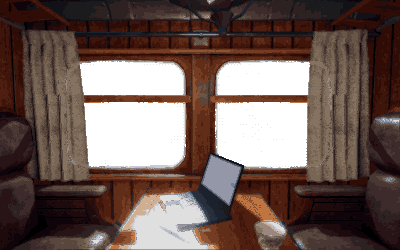
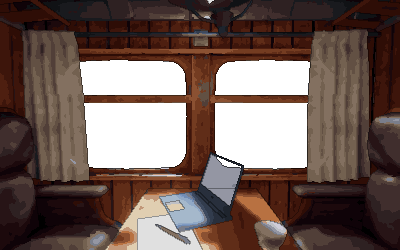
雪国线 ride, pixel art cleaned up: each part of the carriage is smoothed only within itself (from an id render of the same camera), specks merged away, outlines only where parts meet — no more ragged edges on the table, laptop and cup. Sun on the table stays warm wood, laptop in slate tones, seats with
Claude-Session: https://claude.ai/code/session_01ScX6WKwjvGxQ2unMJchHBc

diff --git a/ride.js b/ride.js
@@ -25,6 +25,14 @@
   const TW = 3200, trunks = document.createElement("canvas"); trunks.width = TW; trunks.height = IH;
   { const t = trunks.getContext("2d"); let s = 5; const r = () => (s = (s * 9301 + 49297) % 233280) / 233280;
     for (let x = 0; x < TW - 200;) { x += 120 + r() * 420; const w = 50 + r() * 120;
+      if (PX) {   // pixel bark: flat tones on the 4-px grid, a snow-lit edge, a few dark notches — no gradients
+        const X = Math.round(x / 4) * 4, Wd = Math.round(w / 4) * 4;
+        t.fillStyle = "#3a3028"; t.fillRect(X, 0, Wd, IH);
+        t.fillStyle = "#261f1a"; t.fillRect(X + Math.round(Wd * .62 / 4) * 4, 0, Wd - Math.round(Wd * .62 / 4) * 4, IH);
+        t.fillStyle = "#c9d3de"; t.fillRect(X + 4, 0, 8, IH);
+        t.fillStyle = "#5a4a3e"; t.fillRect(X + 12, 0, 4, IH);
+        t.fillStyle = "#1a1512"; for (let y = 0; y < IH; y += 60 + Math.floor(r() * 90)) t.fillRect(X + 16 + Math.floor(r() * Wd / 8) * 4, Math.round(y / 4) * 4, 8 + Math.floor(r() * 3) * 4, 4);
+        x += w; continue; }
       const gr = t.createLinearGradient(x, 0, x + w, 0); gr.addColorStop(0, "rgba(28,23,18,0)"); gr.addColorStop(.18, "rgba(28,23,18,.97)"); gr.addColorStop(.6, "rgba(48,40,32,.97)"); gr.addColorStop(.82, "rgba(20,16,12,.97)"); gr.addColorStop(1, "rgba(20,16,12,0)");
       t.fillStyle = gr; t.fillRect(x, 0, w, IH);
       const hl = t.createLinearGradient(x, 0, x + w, 0); hl.addColorStop(0, "rgba(230,236,242,0)"); hl.addColorStop(.25, "rgba(230,236,242,.28)"); hl.addColorStop(.4, "rgba(230,236,242,0)"); t.fillStyle = hl; t.fillRect(x, 0, w, IH);   // the snow light on one side of the bark
@@ -33,7 +41,7 @@
   // the tree shadows: slanted trunks and needle clumps, blurred — sunlight breaking through a wood. Tiles every SW px.
   const SW = 2400, pat = document.createElement("canvas"); pat.width = SW; pat.height = IH;
   { const p = pat.getContext("2d"); let s = 17; const r = () => (s = (s * 9301 + 49297) % 233280) / 233280;
-    p.filter = "blur(14px)"; p.fillStyle = "#000";
+    p.filter = PX ? "none" : "blur(14px)"; p.fillStyle = "#000";   // in pixel art the shadows keep hard edges
     const slant = .45;                              // the sun comes in low from the side: shadows lean
     for (let i = 0; i < 6; i++) {
       const x0 = i / 6 * SW + r() * 120, w = 30 + r() * 60;
@@ -57,8 +65,12 @@
     for (let i = puffs.length - 1; i >= 0; i--) {
       const p = puffs[i]; p.age += dt; if (p.age > p.life) { puffs.splice(i, 1); continue; }
       const u = p.age / p.life; p.y -= dt * (34 - 14 * u); p.x += Math.sin(t * 1.6 + p.ph + u * 5) * dt * 16 - dt * 4;
-      const r = p.r * (1 + u * 3.2); g.globalAlpha = Math.sin(Math.PI * Math.min(1, u * 1.2)) * .8 * (1 - u * .5);
-      g.drawImage(puffImg, p.x - r, p.y - r, r * 2, r * 2);
+      const r = p.r * (1 + u * 3.2), al = Math.sin(Math.PI * Math.min(1, u * 1.2)) * .8 * (1 - u * .5);
+      if (PX) {   // pixel steam: a small cluster of pale squares on the grid, stepped alpha
+        g.globalAlpha = Math.round(al * .3 * 8) / 8; g.fillStyle = "#f4f2ee"; const R = Math.max(1, Math.round(r * .32 / 4));
+        for (let j = -R; j <= R; j++) for (let i = -R; i <= R; i++) if (i * i + j * j <= R * R + (((i * 7 + j * 3 + (p.ph * 10 | 0)) & 3) ? 0 : -R))
+          g.fillRect(Math.round(p.x / 4 + i) * 4, Math.round(p.y / 4 + j) * 4, 4, 4);
+      } else { g.globalAlpha = al; g.drawImage(puffImg, p.x - r, p.y - r, r * 2, r * 2); }
     }
     g.globalAlpha = 1;
   }

diff --git a/tools/pixelate.py b/tools/pixelate.py
@@ -1,32 +1,93 @@
-"""纸桌 · turn the ride stills into pixel art (400×250, one shared 40-colour palette, dark outlines).
+"""纸桌 · turn the ride stills into pixel art (400×250, one shared 40-colour palette).
+   Clean edges: each part of the carriage (from tools/cabin-id.png, a flat-colour id render of the same camera)
+   is smoothed only within itself, specks are merged away, and outlines are drawn only where one part meets another.
    py tools/pixelate.py      → assets/cabin-day-px.png, assets/cabin-day-shade-px.png, assets/snow-forest-px.png"""
 import os, numpy as np
 from PIL import Image, ImageFilter
+from scipy import ndimage
 R = os.path.dirname(os.path.dirname(os.path.abspath(__file__))); A = os.path.join(R, "assets")
 W, H = 400, 250
 lo = lambda f: Image.open(f).convert("RGBA").resize((W, H), Image.BOX)
 sun, sh = lo(f"{A}/cabin-day.webp"), lo(f"{A}/cabin-day-shade.webp")
 wood = Image.open(f"{A}/3d/snow_forest.jpg").convert("RGB"); wood = wood.resize((int(wood.width * 190 / wood.height), 190), Image.BOX)
+code = np.asarray(Image.open(os.path.join(R, "tools", "cabin-id.png")).convert("RGB")).astype(np.int32) @ [65536, 256, 1]
+glass = code == 0
+# how much each part is smoothed (in pixels): props and table flat and clean, the panelling keeps its grain
+WALL, TABLE = 0x111180, 0x110080
+LAPTOP, PAD, CUP, PAPER, PEN = 0x881180, 0x991180, 0x2280, 0x112280, 0x222280
+SEATS = (0x1180, 0xaa0080, 0x770080, 0xdd0080)
+sig = {TABLE: 1.6, LAPTOP: 2.0, PAD: 2.0, CUP: 1.4, PAPER: 2.0, PEN: .8, WALL: 0.0}
+DEFAULT = 1.1                                                    # curtains, seats, ceiling
 
-def grade(rgb):
-    a = np.asarray(rgb).astype(np.float32) / 255
+def grade(a):
     a = np.where(a > .72, .72 + (a - .72) * .45, a)              # tame the blown-out sun on the table
-    l = a.mean(-1, keepdims=True); a = np.clip(l + (a - l) * 1.3, 0, 1)   # pixel art pushes colour
-    a = np.clip((a - .5) * 1.1 + .5, 0, 1)
-    return Image.fromarray((a * 255).astype(np.uint8))
+    l = a.mean(-1, keepdims=True); a = np.clip(l + (a - l) * 1.3, 0, 1)
+    return np.clip((a - .5) * 1.1 + .5, 0, 1)
 
-mos = Image.new("RGB", (W * 2 + wood.width, max(H, 190)))
-mos.paste(grade(sun.convert("RGB")), (0, 0)); mos.paste(grade(sh.convert("RGB")), (W, 0)); mos.paste(grade(wood), (W * 2, 0))
-pal = mos.quantize(colors=40, method=Image.Quantize.MEDIANCUT, kmeans=4)
+def smooth(a):
+    """blur each part only with itself, so colours never bleed across an edge"""
+    out = a.copy()
+    for v in np.unique(code):
+        if v == 0: continue
+        s = sig.get(v, DEFAULT)
+        if s == 0: continue
+        m = (code == v).astype(np.float32)
+        num = np.stack([ndimage.gaussian_filter(a[..., c] * m, s) for c in range(3)], -1)
+        den = ndimage.gaussian_filter(m, s)[..., None]
+        out[code == v] = (num / np.maximum(den, 1e-4))[code == v]
+    return out
 
-def px(im):
-    g = grade(im.convert("RGB")); out = np.asarray(g.quantize(palette=pal, dither=Image.Dither.NONE).convert("RGB")).astype(np.float32)
-    e = np.asarray(g.convert("L").filter(ImageFilter.FIND_EDGES)).astype(np.float32)
-    return np.where((e > 70)[..., None], out * .7, out).astype(np.uint8)   # dark outlines on the edges
+def despeck(q, mask, n=5):
+    """runs of one colour smaller than n pixels inside a part take the colour around them"""
+    c = q.astype(np.int32) @ [65536, 256, 1]
+    for part in np.unique(code[mask]):
+        pm = (code == part) & mask
+        for v in np.unique(c[pm]):
+            lb, k = ndimage.label((c == v) & pm)
+            if not k: continue
+            sz = ndimage.sum(np.ones_like(lb), lb, range(1, k + 1))
+            for i in np.where(sz < n)[0] + 1:
+                m = lb == i; ring = ndimage.binary_dilation(m) & ~m & pm; vals = c[ring]
+                if len(vals): u, cnt = np.unique(vals, return_counts=True); c[m] = u[cnt.argmax()]
+    return np.stack([(c >> 16) & 255, (c >> 8) & 255, c & 255], -1).astype(np.uint8)
 
-a = np.asarray(sun)[..., 3]; yy, xx = np.mgrid[0:H, 0:W]
-frost = (a > 70) & (a <= 110) & (xx % 3 == 0) & (yy % 3 == 1)          # a sparse pixel frost on the glass
-alpha = np.where(a > 110, 255, np.where(frost, 200, 0)).astype(np.uint8)
-for im, name in [(sun, "cabin-day-px.png"), (sh, "cabin-day-shade-px.png")]:
-    Image.fromarray(np.dstack([px(im), alpha]), "RGBA").save(f"{A}/{name}", optimize=True)
-Image.fromarray(px(wood.convert("RGBA"))).save(f"{A}/snow-forest-px.png", optimize=True)
+f32 = lambda im: np.asarray(im.convert("RGB")).astype(np.float32) / 255
+
+def parts(a):
+    """the sun patch on the table stays warm wood, not white; the laptop is slate in a few tones; the cup keeps a rim"""
+    l = a @ [.3, .59, .11]
+    t = code == TABLE; k = np.clip((l[t] - .45) / .55, 0, 1)[:, None]
+    a[t] = a[t] * (1 - k * .55) + np.array([.98, .80, .55]) * k * .55 * np.clip(l[t] / .9, .6, 1)[:, None]
+    lp = (code == LAPTOP) | (code == PAD)
+    ll = np.clip(.12 + l[lp] * .62, 0, 1)[:, None]; a[lp] = ll * np.array([.92, .96, 1.12])
+    c = code == CUP; a[c] = np.clip(a[c] * .9, 0, 1)
+    for v in SEATS:   # leather: the 3D sheen pressed down so the seats read as soft, not glossy
+        m = code == v; lm = l[m][:, None]; a[m] = a[m] * np.where(lm > .42, (.42 + (lm - .42) * .3) / np.maximum(lm, 1e-3), 1)
+    p = code == PEN; a[p] = a[p] * .45 + np.array([.10, .08, .07])
+    return a
+g_sun, g_sh = grade(parts(smooth(f32(sun)))), grade(parts(smooth(f32(sh))))
+g_wood = grade(f32(wood))
+mos = np.zeros((max(H, 190), W * 2 + wood.width, 3), np.float32)
+mos[:H, :W] = g_sun; mos[:H, W:2 * W] = g_sh; mos[:190, 2 * W:] = g_wood
+pal = Image.fromarray((mos * 255).astype(np.uint8)).quantize(colors=40, method=Image.Quantize.MEDIANCUT, kmeans=4)
+quant = lambda a: np.asarray(Image.fromarray((a * 255).astype(np.uint8)).quantize(palette=pal, dither=Image.Dither.NONE).convert("RGB"))
+
+edge = np.zeros((H, W), bool)                                      # where one part meets another
+edge[1:] |= code[1:] != code[:-1]; edge[:, 1:] |= code[:, 1:] != code[:, :-1]
+edge &= ~glass
+rim = ndimage.binary_dilation(glass) & ~glass                       # the frame's inner lip around the glass
+
+def px(g):
+    q = despeck(quant(g), ~glass).astype(np.float32)
+    q[edge] *= .66
+    q[rim] *= .55
+    return q.astype(np.uint8)
+
+yy, xx = np.mgrid[0:H, 0:W]
+inner = ndimage.binary_erosion(glass, iterations=2)
+frost = np.zeros_like(glass)
+alpha = np.where(glass, np.where(frost, 170, 0), 255).astype(np.uint8)
+for g, name in [(g_sun, "cabin-day-px.png"), (g_sh, "cabin-day-shade-px.png")]:
+    Image.fromarray(np.dstack([px(g), alpha]), "RGBA").save(f"{A}/{name}", optimize=True)
+qw = np.asarray(Image.fromarray((g_wood * 255).astype(np.uint8)).quantize(palette=pal, dither=Image.Dither.NONE).convert("RGB"))
+Image.fromarray(qw).save(f"{A}/snow-forest-px.png", optimize=True)
